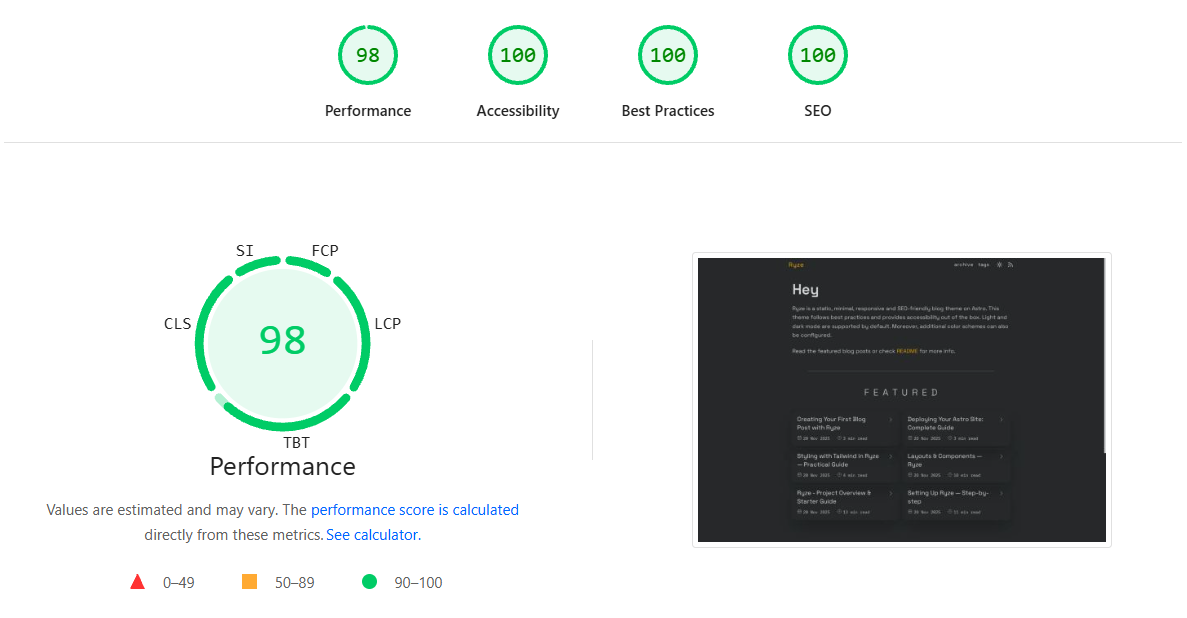
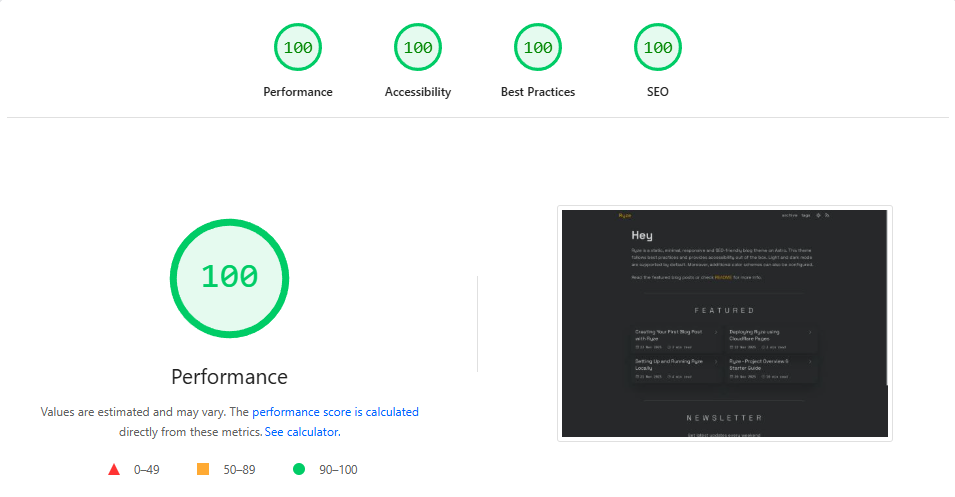
Update: lighthouse score

diff --git a/README.md b/README.md
@@ -24,8 +24,8 @@ Read the [blog posts](https://ryze.pages.dev/) to understand how Ryze is built a
 ## Lighhouse Performance Scores
 
 <p align="center">
-  <a href="https://pagespeed.web.dev/analysis/https-ryze-pages-dev/pq9idv766z?form_factor=desktop">
-    <img width="710" alt="Ryze Lighthouse score" src="https://github.com/8366888C/Ryze/blob/main/src/image/ryze-lighthouse-score.png">
+  <a href="https://pagespeed.web.dev/analysis/https-ryze-pages-dev/rg7pfbgh1l?form_factor=desktop">
+    <img width="710" alt="Ryze Lighthouse score" src="https://github.com/8366888C/Ryze/blob/main/public/ryze-lighthouse-score.png">
   <a>
 </p>
 

diff --git a/src/blog/ryze-overview.md b/src/blog/ryze-overview.md
@@ -32,7 +32,7 @@ See the [SOURCE CODE](https://github.com/8366888C/Ryze) for more details.
 #### Lighthouse Performance Scores
 
 <figure class="group">
-  <a href="https://pagespeed.web.dev/analysis/https-ryze-pages-dev/pq9idv766z?form_factor=desktop">
+  <a href="https://pagespeed.web.dev/analysis/https-ryze-pages-dev/rg7pfbgh1l?form_factor=desktop">
 	<img loading="lazy" alt="Ryze Lighthouse Score" src="/ryze-lighthouse-score.png">
   <figcaption>Ryze Lighthouse Score</figcaption>
   </a>
